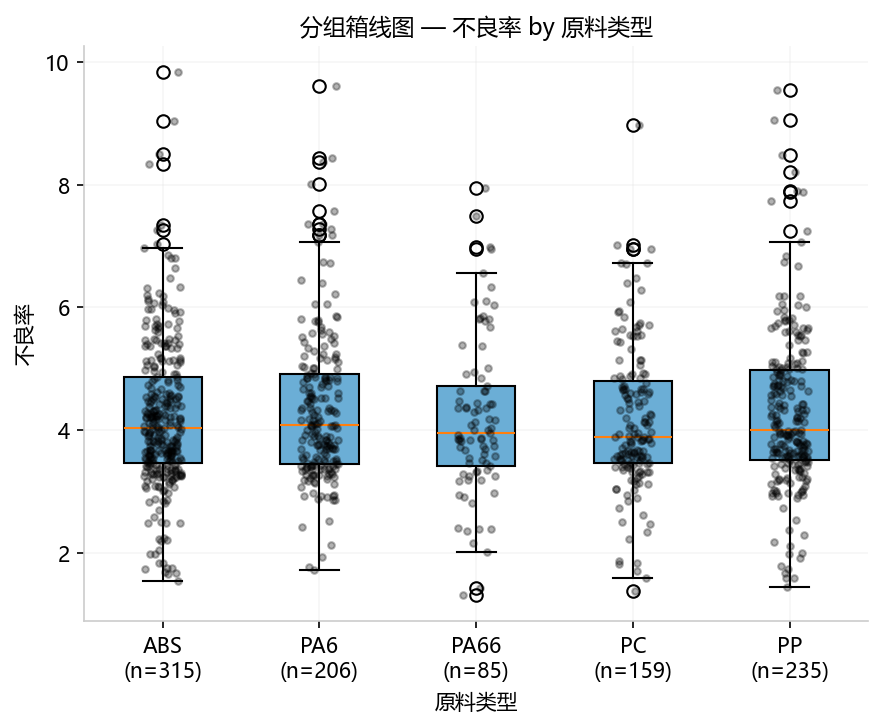
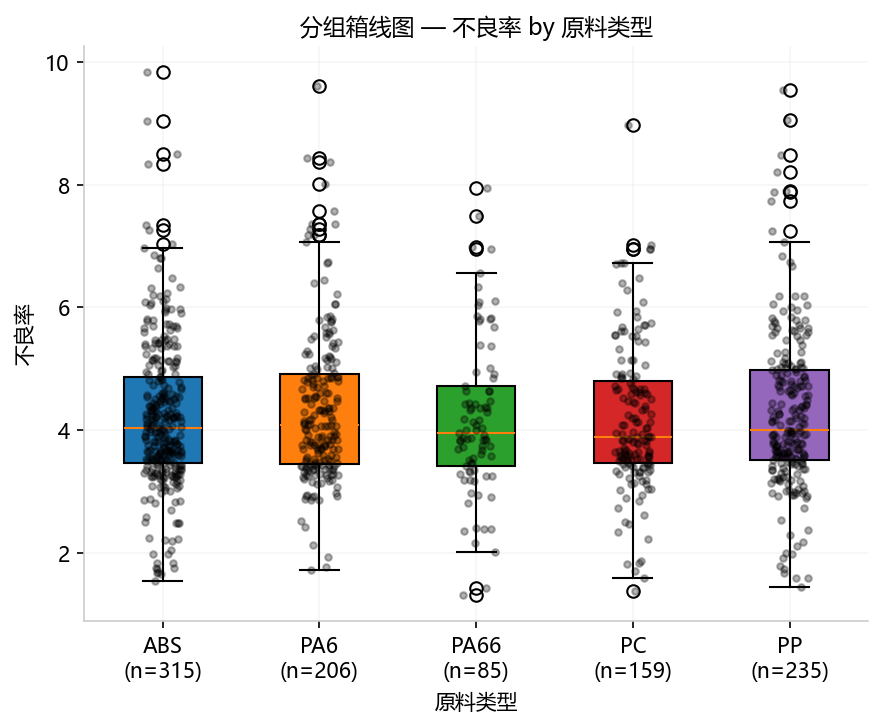
feat: box_chart分类颜色区分 — tab10 colormap每组不同颜色
Before: 所有箱体统一蓝色(#6baed6)
After:  每组使用tab10 colormap不同颜色(最多10色循环)

影响: facet/simple/nested三种模式均生效
前端: 参数面板双重点击优化(同任务再点→直接执行)
导入: from matplotlib import cm

测试: 149 passed ✅

diff --git a/smartsuite/web/static/app.js b/smartsuite/web/static/app.js
@@ -158,6 +158,12 @@ async function runAnalysis(task) {
   }
   // 有参数配置 → 第一步: 显示参数面板, 等待用户编辑后点"运行"
   if (TASK_PARAMS[task]) {
+    // 如果同一个任务已显示参数面板 → 直接执行（用户已经编辑过参数）
+    if (_pendingTask === task && document.getElementById('param-panel').style.display !== 'none') {
+      _pendingTask = null;
+      await executeRequest(task);
+      return;
+    }
     _pendingTask = task;
     showParams(task);
     // 在参数面板底部加"运行"按钮

diff --git a/smartsuite/engine/spc_monitor.py b/smartsuite/engine/spc_monitor.py
@@ -1,5 +1,6 @@
 import numpy as np
 import pandas as pd
+from matplotlib import cm
 from matplotlib.figure import Figure
 from scipy import stats as sp_stats
 from sklearn.linear_model import LinearRegression
@@ -2245,8 +2246,9 @@ def box_chart(req: AnalysisRequest) -> AnalysisResult:
             if len(valid_groups) >= 2:
                 bp = ax.boxplot(sg_groups, tick_labels=valid_groups,
                                patch_artist=True, widths=0.5)
-                for patch in bp['boxes']:
-                    patch.set_facecolor("#6baed6")
+                cmap = cm.tab10
+                for pi, patch in enumerate(bp['boxes']):
+                    patch.set_facecolor(cmap(pi % 10))
                 for i, gdata in enumerate(sg_groups, 1):
                     jitter = np.random.uniform(-0.12, 0.12, len(gdata))
                     ax.scatter(np.full(len(gdata), i)+jitter, gdata,
@@ -2262,8 +2264,9 @@ def box_chart(req: AnalysisRequest) -> AnalysisResult:
                        tick_labels=[f"{g}\n(n={len(d)})"
                                    for g, d in zip(groups, group_data)],
                        patch_artist=True, widths=0.5)
-        for patch in bp['boxes']:
-            patch.set_facecolor("#6baed6")
+        cmap = cm.tab10
+        for pi, patch in enumerate(bp['boxes']):
+            patch.set_facecolor(cmap(pi % 10))
         for i, gdata in enumerate(group_data, 1):
             jitter = np.random.uniform(-0.12, 0.12, len(gdata))
             ax.scatter(np.full(len(gdata), i)+jitter, gdata,